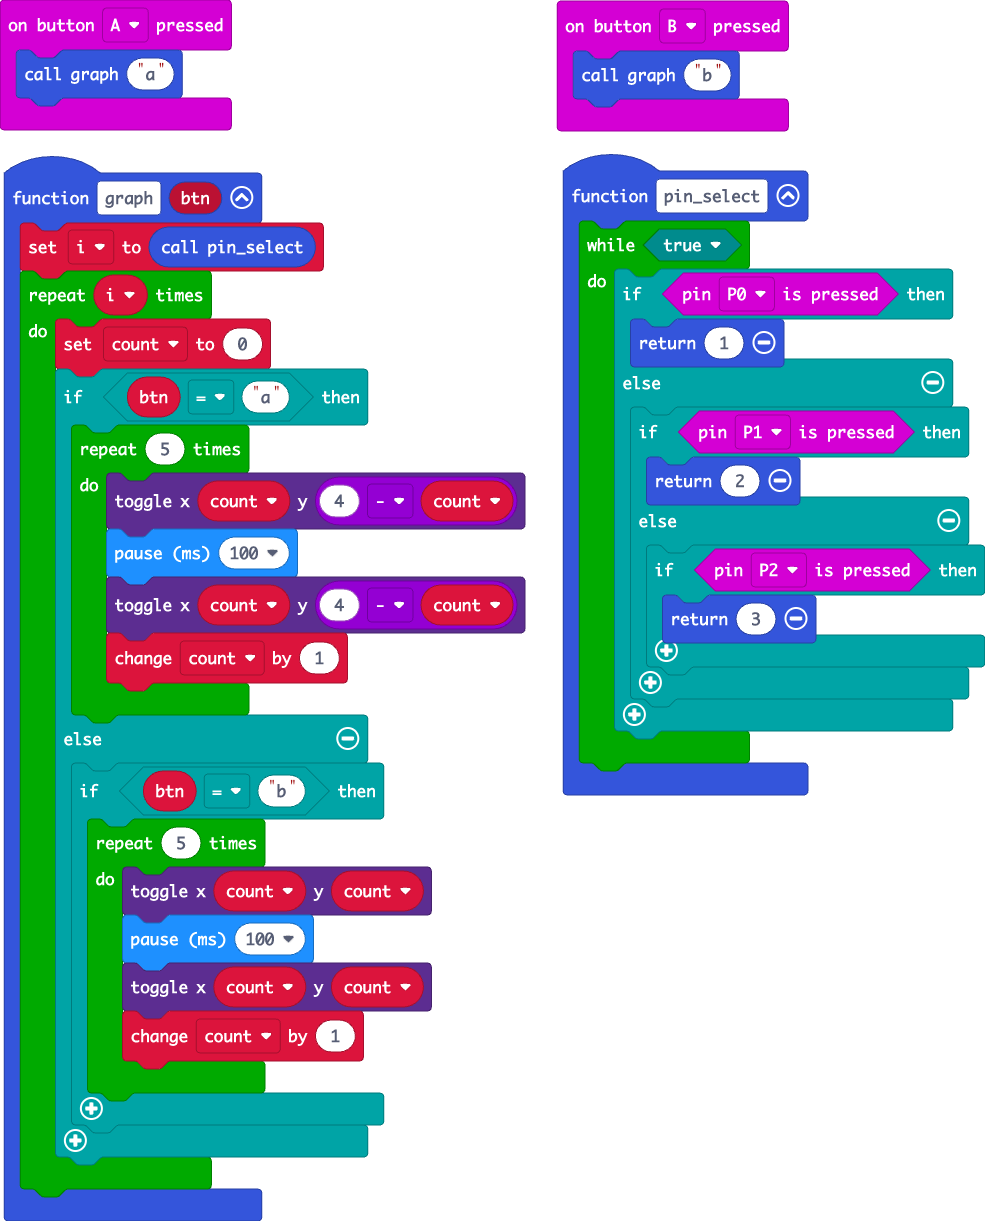
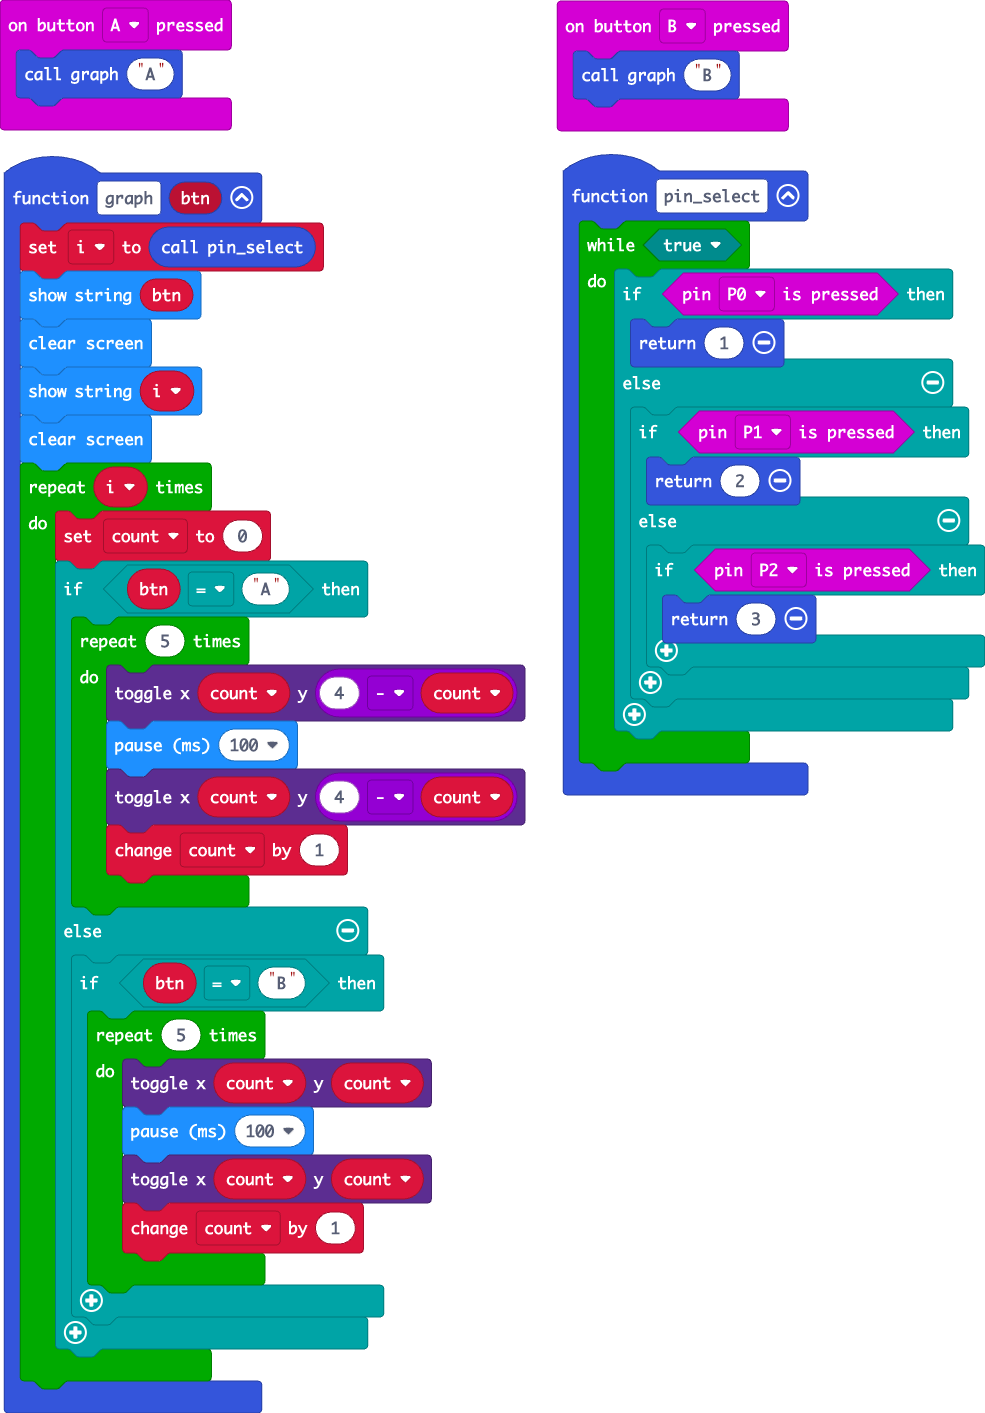
Show button press and pin press

diff --git a/main.ts b/main.ts
@@ -16,13 +16,17 @@ function pin_select () {
     }
 }
 input.onButtonPressed(Button.A, function () {
-    graph("a")
+    graph("A")
 })
 function graph (btn: string) {
     i = pin_select()
+    basic.showString(btn)
+    basic.clearScreen()
+    basic.showString("" + (i))
+    basic.clearScreen()
     for (let index = 0; index < i; index++) {
         count = 0
-        if (btn == "a") {
+        if (btn == "A") {
             for (let index = 0; index < 5; index++) {
                 led.toggle(count, 4 - count)
                 basic.pause(100)
@@ -30,7 +34,7 @@ function graph (btn: string) {
                 count += 1
             }
         } else {
-            if (btn == "b") {
+            if (btn == "B") {
                 for (let index = 0; index < 5; index++) {
                     led.toggle(count, count)
                     basic.pause(100)
@@ -42,5 +46,5 @@ function graph (btn: string) {
     }
 }
 input.onButtonPressed(Button.B, function () {
-    graph("b")
+    graph("B")
 })
